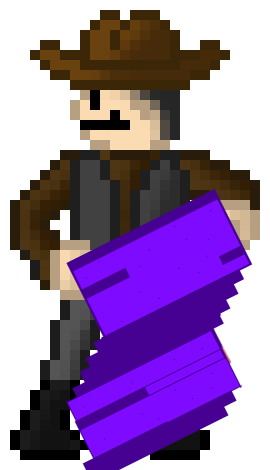
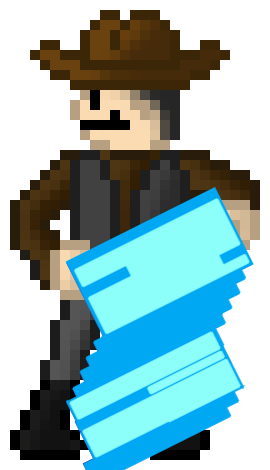
Color Update 3:30pm 4/11

Changed region(s): [[0.237, 0.3872, 0.9481, 1.0]]

diff --git a/src/game/scripts/page.js b/src/game/scripts/page.js
@@ -68,6 +68,9 @@ var DOWN = false;
 var touched = false;
 
 
+let currentThemeIndex = 0;
+
+
 // ==============================================
 // ============ Theme stuff =====================
 // ==============================================
@@ -88,7 +91,7 @@ const themes = {
     '--button-background-color': 'black',
     '--button-border-color': 'white',
     '--button-font-color': 'white',
-    '--settings-background-color': 'white',
+    '--settings-background-color': 'black',
     '--settings-border-color': 'white',
     '--settings-font-color': 'white',
     '--slider-background-color': '#d3d3d3',
@@ -103,8 +106,9 @@ const themes = {
     '--tutorial-bull': 'url("../src/running-bull-left.png")',
     '--tutorial-sheep': 'url("../src/sheep.png")',
     '--tutorial-cape': 'url("../src/red_cape.png")',
-    '--game_over_button_color': 'sienna',
-    '--game_over_button_text': 'white',
+    '--game_over_button_color': 'white',
+    '--game_over_button_text': 'black',
+    '--game_over_button_outline': 'white',
     'ENEMY_LEFT': "src/running-bull-left.png",
     'ENEMY_RIGHT': "src/running-bull-right.png",
     'PLAYER_LEFT': "src/player/cowboy_left.png",
@@ -122,10 +126,10 @@ const themes = {
     '--game-background-color': '#fffacd',
     '--game-background-image': 'url("../src/grass.gif")',
     '--font-color': 'black',
-    '--danger-color': 'black',
-    '--level-color': 'black',
-    '--score-color': 'black',
-    '--score-num-color': 'black',
+    '--danger-color': 'cyan',
+    '--level-color': 'cyan',
+    '--score-color': 'cyan',
+    '--score-num-color': 'cyan',
     '--button-background-color': 'cyan',
     '--button-border-color': 'black',
     '--button-font-color': 'black',
@@ -136,6 +140,7 @@ const themes = {
     '--slider-fill-color': 'opacity(0.7)',
     '--game-over-background-color': 'cyan',
     '--game-over-color': 'black',
+    '--game_over_button_outline': 'black',
     '--asteroid-left': 'url("../src/running-bull-yellow-left.png")',
     '--asteroid-right': 'url("../src/running-bull-yellow-right.png")',
     '--settings-button-outline': '3px solid darkgreen',
@@ -231,7 +236,7 @@ $(document).ready(function () {
   // ##########################################################
   // Theme stuff
   const themeNames = Object.keys(themes);
-  let currentThemeIndex = 0;
+  //let currentThemeIndex = 0;
 
   function setTheme(theme) {
     const themeVars = themes[theme];
@@ -435,11 +440,11 @@ function sheepCollision() {
 }
 
 function shieldSpawn() {
-  //if (colorblind){
-  //  onScreenShield.html("<img class='game_object' src='src/blue_cape.png'/>");
-  //} else {
+  if (currentThemeIndex==0){
     onScreenShield.html("<img class='game_object' src='src/red_cape.png'/>");
-  //}
+  } else {
+    onScreenShield.html("<img class='game_object' src='src/blue_cape.png'/>");
+  }
   onScreenShield.css('left', getRandomNumber(0, 1218));
   onScreenShield.css('top', getRandomNumber(0, 658));
 

diff --git a/src/game/index.html b/src/game/index.html
@@ -26,9 +26,9 @@
                         <div id="fortyfive_margin"></div>
                         <button id="settings_menu" class="main_button">Settings</button>
                         <div id="fortyfive_margin"></div>
-                        <button id="toggle_theme" class="main_button">Toggle Theme</button>
+                        <button id="toggle_theme" class="main_button">Toggle Colorblind</button>
                         <div id="fortyfive_margin"></div>
-                        <span id="current_theme" style="background-color: white;">Current Theme: Default</span>
+                        <span id="current_theme" style=" display: none; background-color: white;">Current Theme: Default</span>
                     </div>
                 </div>
 

diff --git a/src/game/style/index.css b/src/game/style/index.css
@@ -25,8 +25,9 @@
     --tutorial-bull: url("../src/running-bull-left.png");
     --tutorial-sheep: url("../src/sheep.png");
     --tutorial-cape: url("../src/red_cape.png");
-    --game_over_button_color: black;
-    --game_over_button_text: white;
+    --game_over_button_color: white;
+    --game_over_button_text: black;
+    --game_over_button_outline: white;
   }
   
   body,
@@ -246,6 +247,7 @@
 #game_over_button {
     background-color: var(--game_over_button_color);
     color: var(--game_over_button_text);
+    outline: var(--game_over_button_outline);
     font-size: xxx-large;
 }
 
